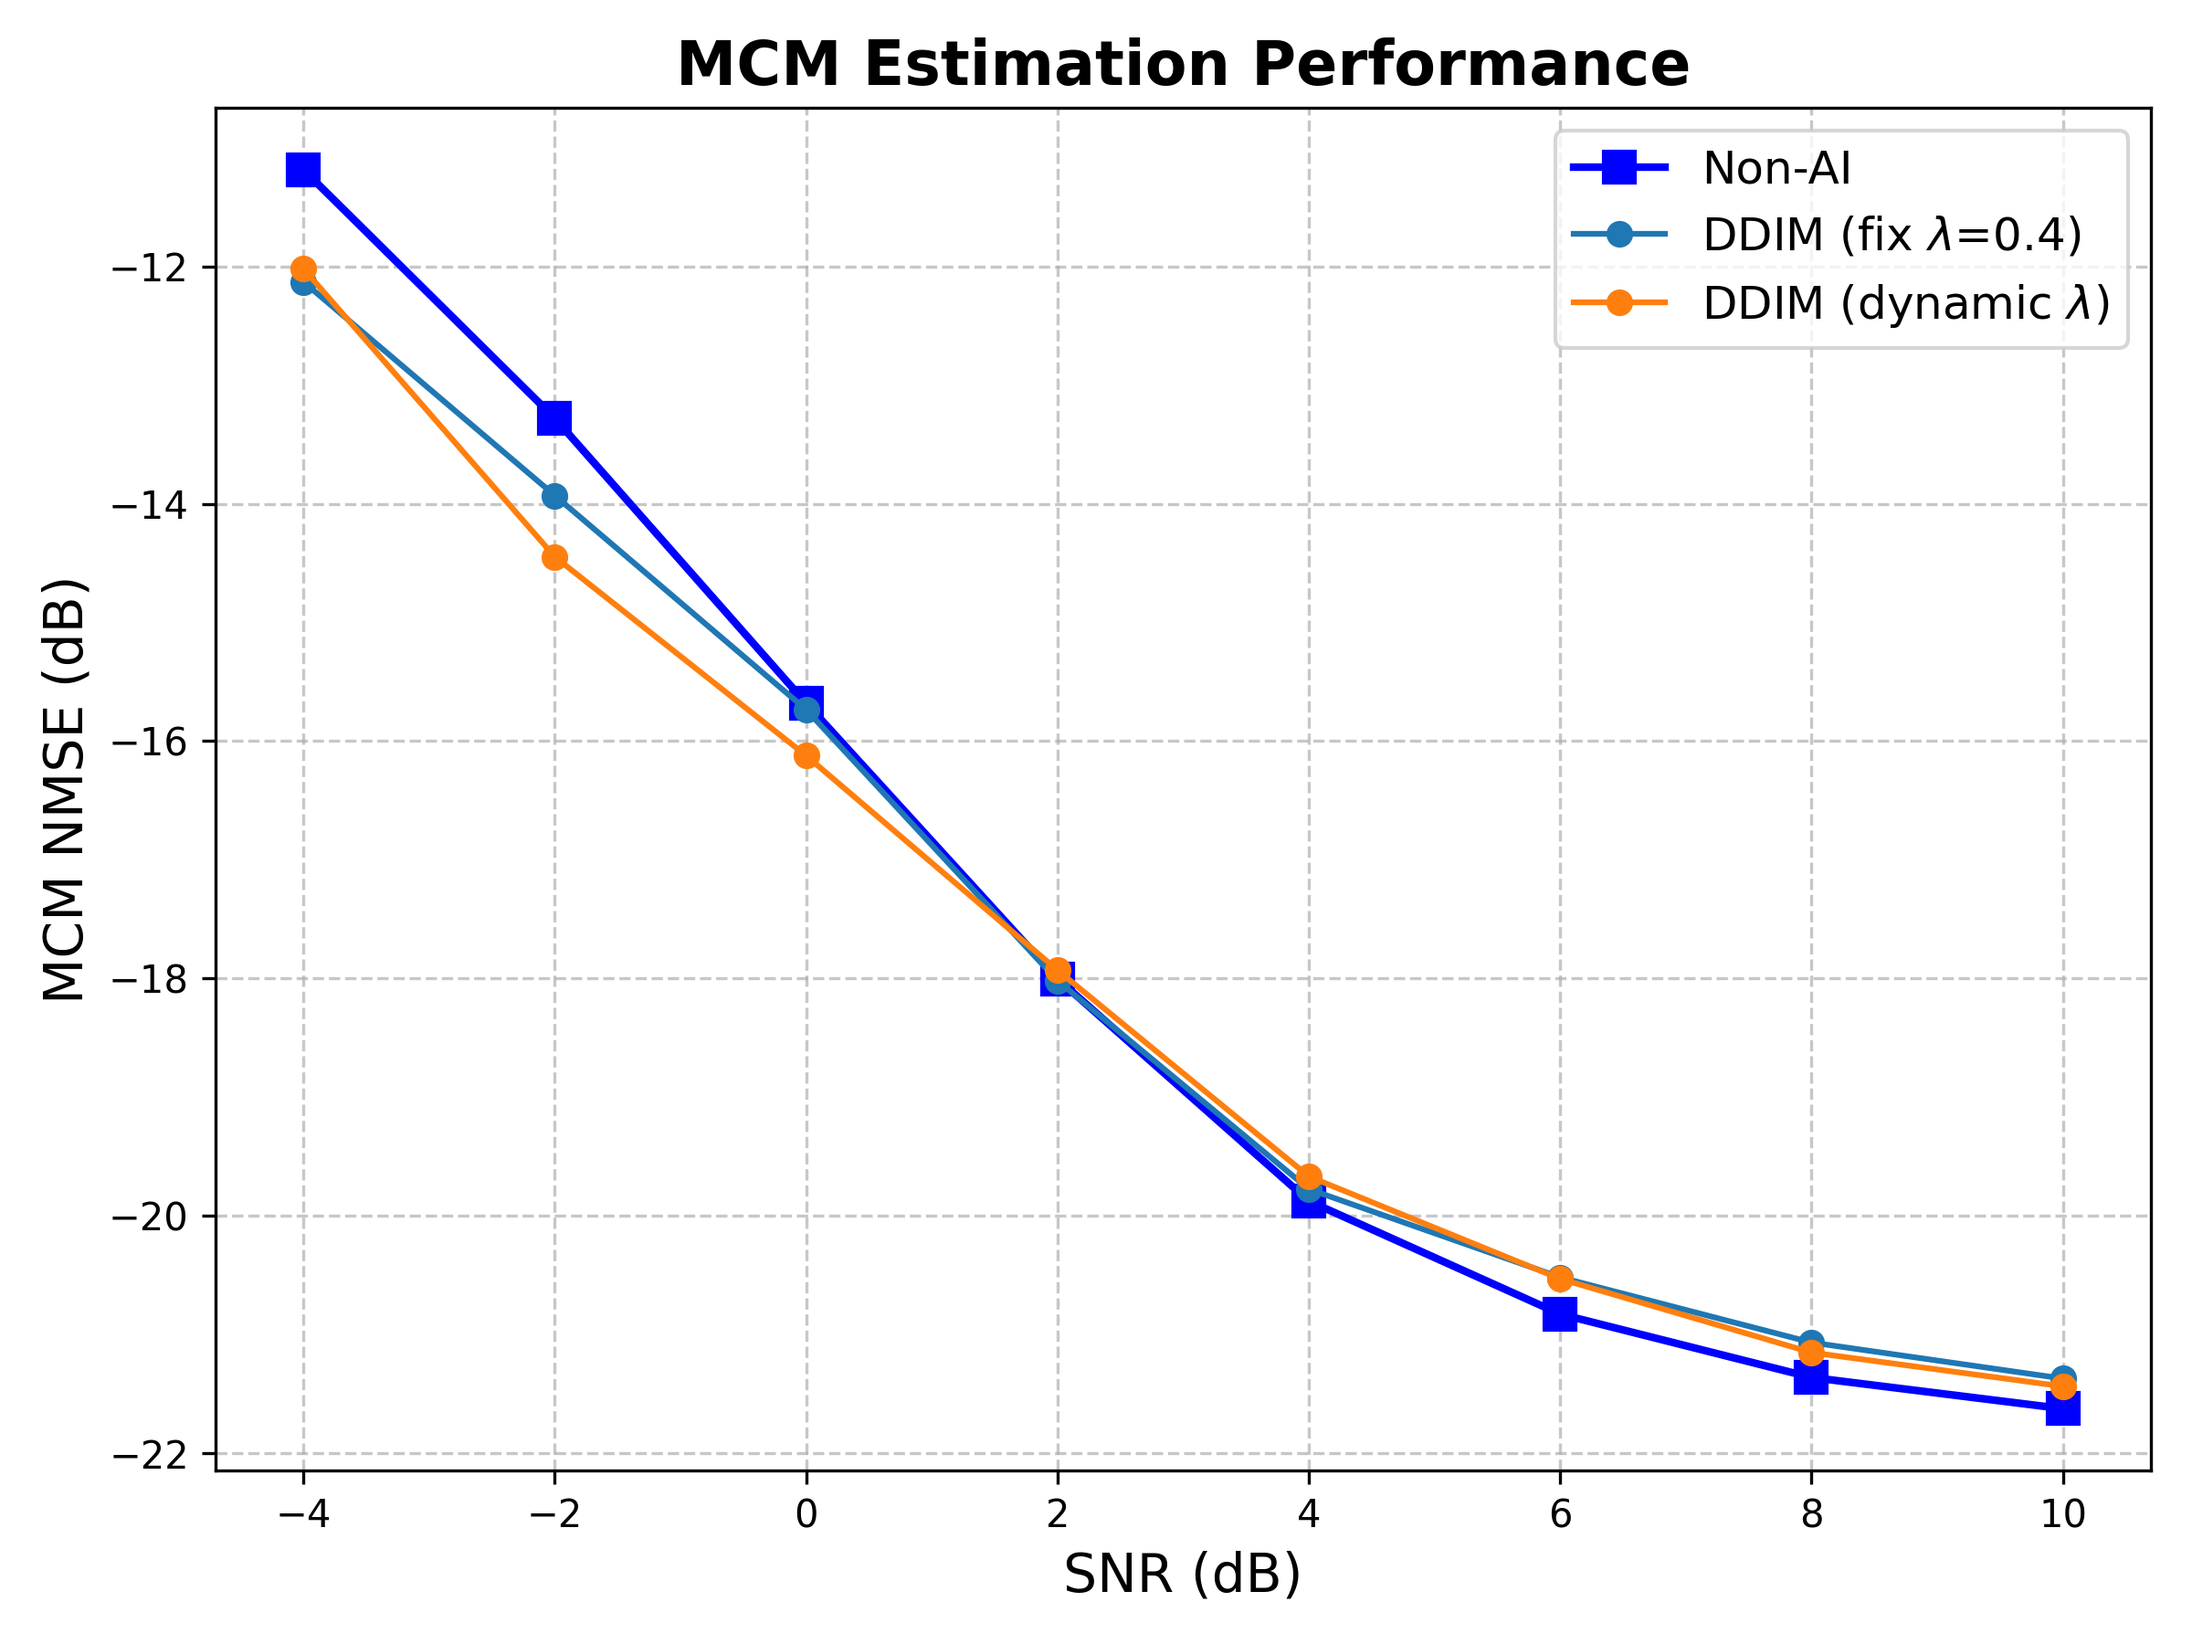
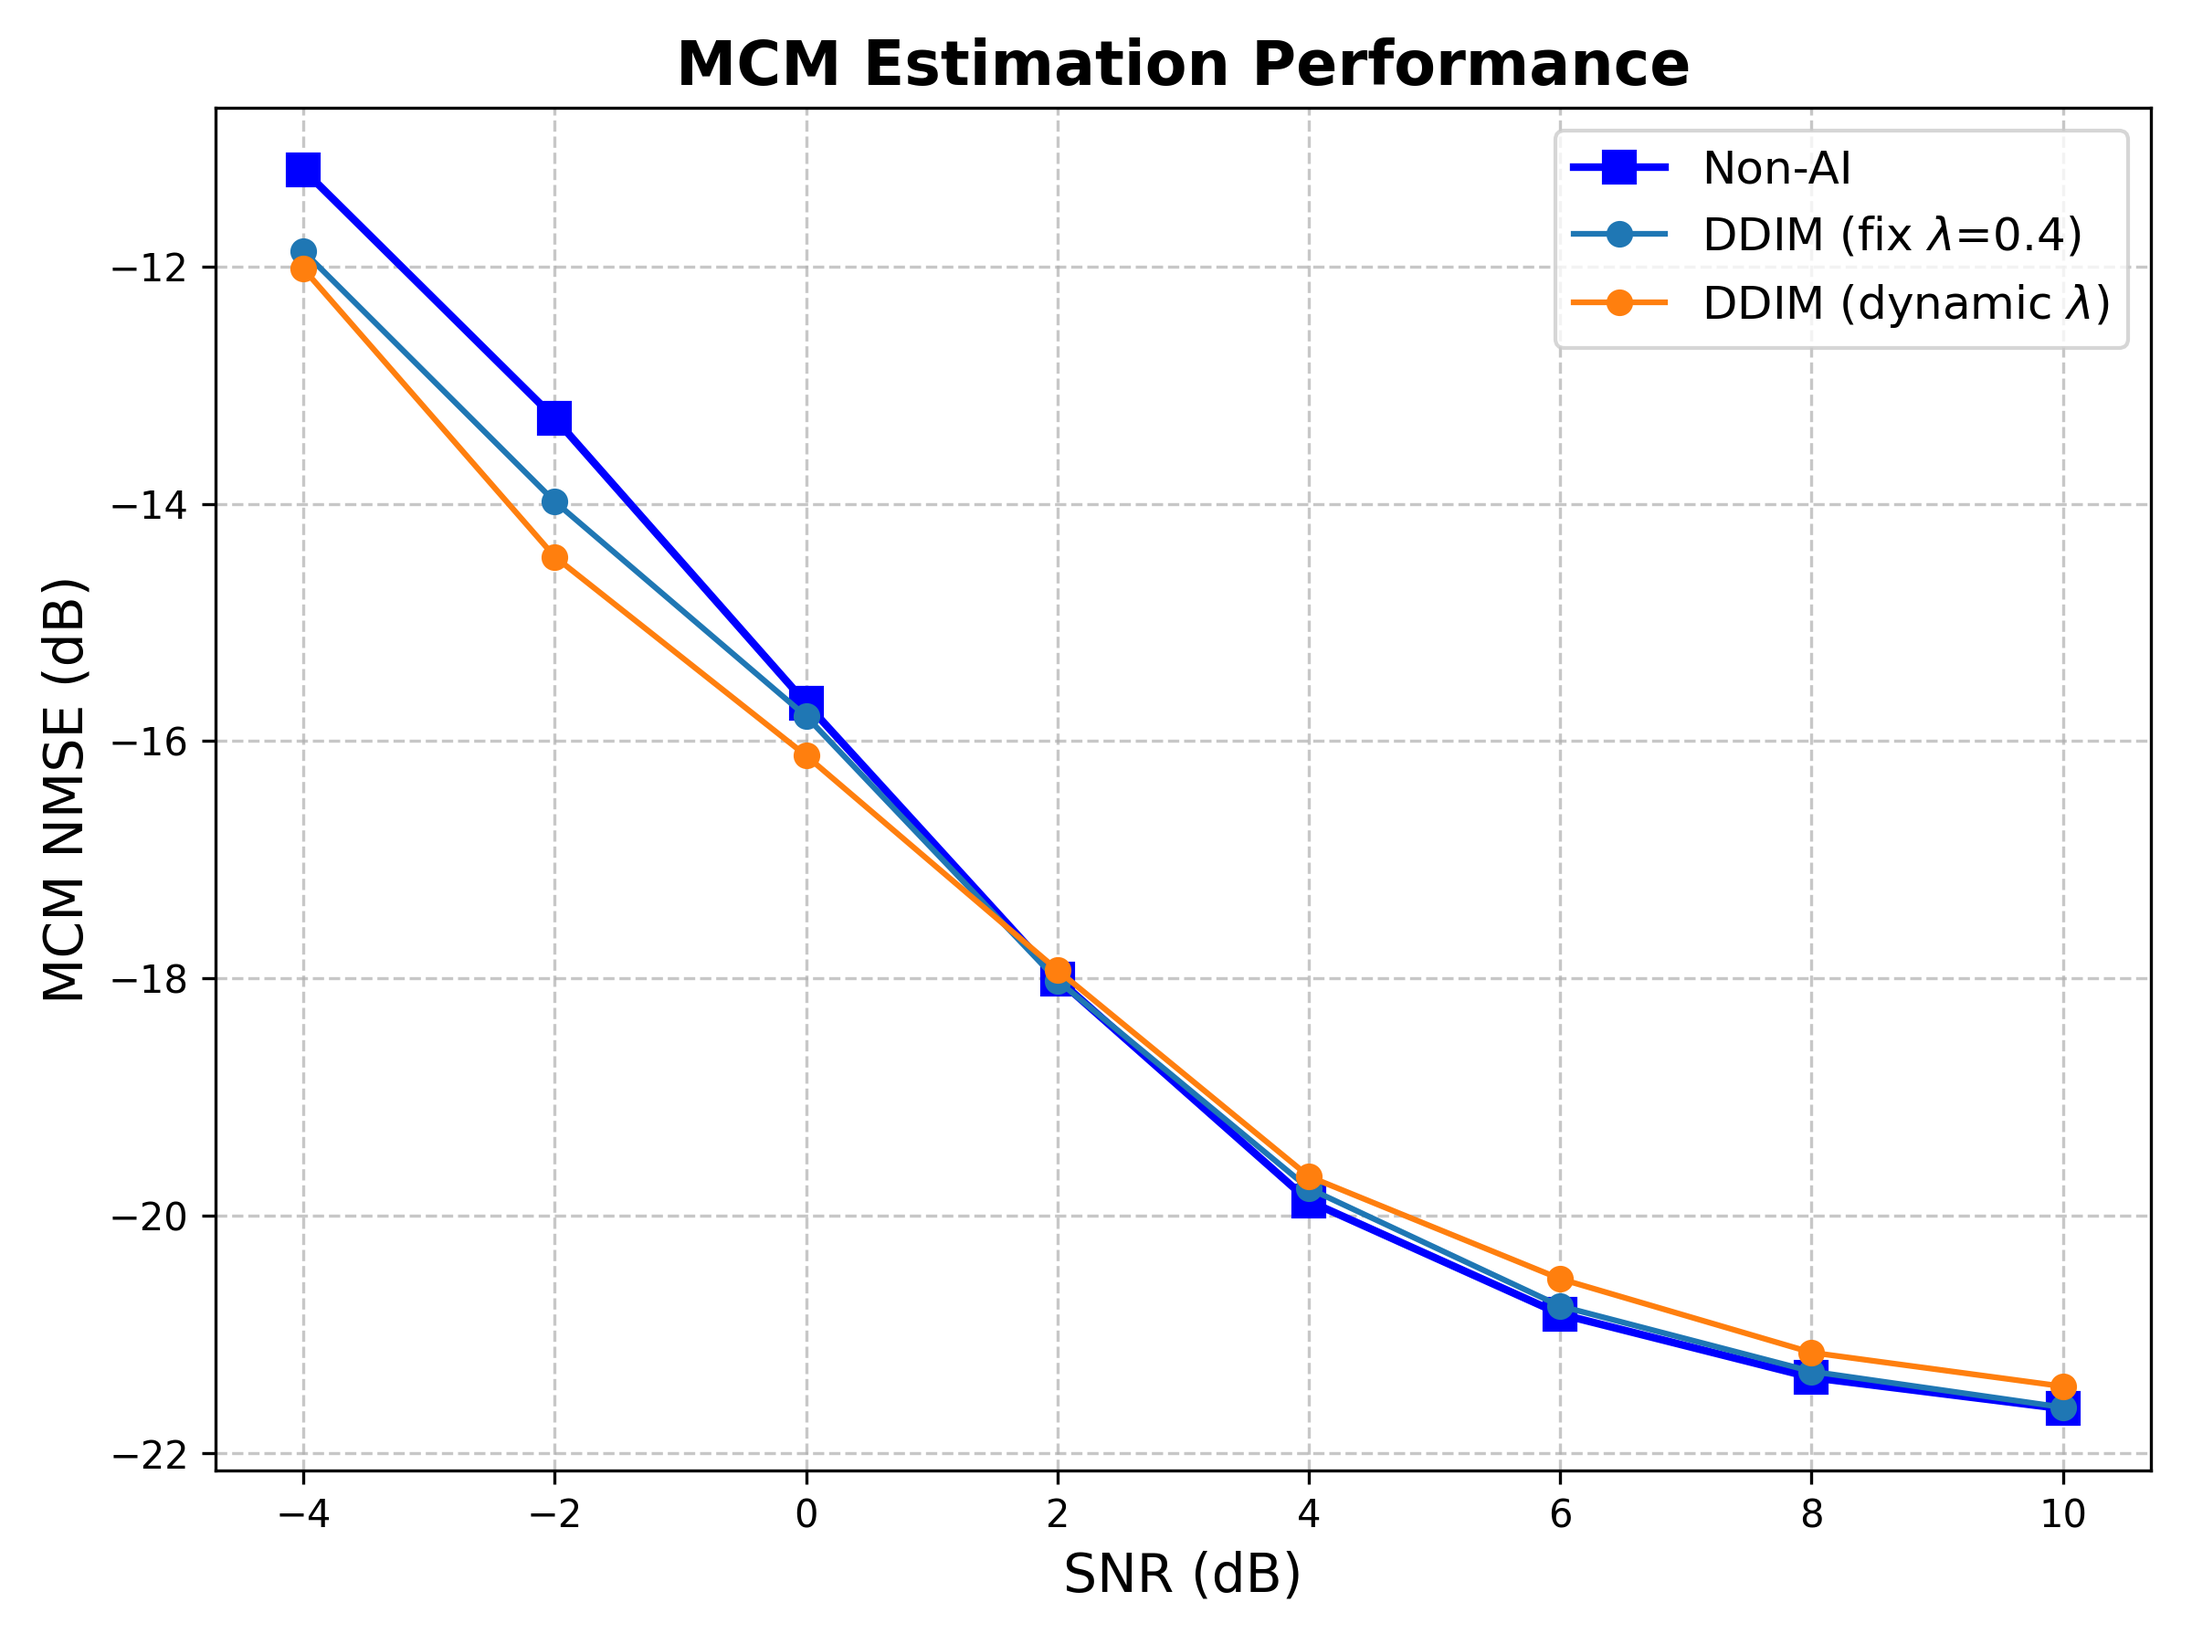
feat(fix_lamb): optimize fixed lambda with data normalization
- Renamed main_fix_lamb for consistency.
- Tuned lambda=0.25 to align with non-AI baseline.
- Added data normalization with max(sigma_y2, 0.2) to further improve alignment.
- Result: fixed lambda w/ data nmlz can perform the same as nonAI.

diff --git a/sim2/DDIM/diffusion/ddim_sampler_parallel.py b/sim2/DDIM/diffusion/ddim_sampler_parallel.py
@@ -70,6 +70,7 @@ def ddim_epsnet_guided_sampler_dynamic(y_obs_complex, eps_net, snr,
     
 
 def ddim_epsnet_guided_sampler_batch(y_obs_complex, eps_net, snr,
+                                     data_mean, data_std,
                                      num_steps=200, T=50.0,
                                      beta_min=1e-4, beta_max=0.02,
                                      guidance_lambda=0.8, device=None,
@@ -82,7 +83,9 @@ def ddim_epsnet_guided_sampler_batch(y_obs_complex, eps_net, snr,
         y_real = complex_to_real(y_obs_complex.T)  # (L, 2N)
         B = y_real.shape[0]
         t_seq = torch.linspace(T, 0.0, num_steps, device=device)
-        x_t = torch.randn_like(y_real, device=device)
+        x_t = torch.randn_like(y_real, device=device)# Ensure broadcasting
+        data_mean = data_mean.view(1, -1)
+        data_std = data_std.view(1, -1)
         sigma_y2 = (10 ** (-snr / 20.0)) ** 2 / 2.0  # placeholder, user can pass SNR if needed
 
         for k in range(num_steps - 1):
@@ -100,17 +103,22 @@ def ddim_epsnet_guided_sampler_batch(y_obs_complex, eps_net, snr,
             sqrt_1m_a_next = torch.sqrt(1.0 - a_bar_next)
 
             # denoise to x0_hat for entire batch
-            x0_hat = (x_t - sqrt_1m_a_cur * eps_pred) / (sqrt_a_cur + 1e-12)
+            x0_hat_norm = (x_t - sqrt_1m_a_cur * eps_pred) / (sqrt_a_cur + 1e-12)
+            x0_hat_phys = x0_hat_norm * data_std + data_mean
 
             # guidance in x0 domain using observed y
-            grad_x0 = (y_real - x0_hat) / max(sigma_y2 + 1e-8, 0.15)
-            x0_hat_guided = x0_hat + guidance_lambda * grad_x0
+            grad_x0 = (y_real - x0_hat_phys) / max(sigma_y2, 0.2)
+            #  Convert Gradient back to Normalized Space (Chain Rule)
+            # dx_phys/dx_norm = data_std
+            grad_norm = grad_x0 * data_std
+            # Apply Guidance in Normalized Space
+            x0_hat_guided_norm = x0_hat_norm + guidance_lambda * grad_norm
 
             # compute eps_guided
-            eps_guided = (x_t - sqrt_a_cur * x0_hat_guided) / (sqrt_1m_a_cur + 1e-12)
+            eps_guided = (x_t - sqrt_a_cur * x0_hat_guided_norm) / (sqrt_1m_a_cur + 1e-12)
 
             # DDIM deterministic update for whole batch
-            x_t = sqrt_a_next * x0_hat_guided + sqrt_1m_a_next * eps_guided
+            x_t = sqrt_a_next * x0_hat_guided_norm + sqrt_1m_a_next * eps_guided
 
             # optional physics projection on batch (operates in real stacked domain)
             if apply_physics_projection and (k % 10 == 0):
@@ -124,11 +132,16 @@ def ddim_epsnet_guided_sampler_batch(y_obs_complex, eps_net, snr,
         sqrt_a_last = torch.sqrt(a_bar_last)
         sqrt_1m_a_last = torch.sqrt(1.0 - a_bar_last)
         x0_hat_final = (x_t - sqrt_1m_a_last * eps_final) / (sqrt_a_last + 1e-12)
+        x0_hat_phys = x0_hat_final * data_std + data_mean
         # final guidance
-        grad_x0 = (y_real - x0_hat_final) / max(sigma_y2 + 1e-8, 0.15)
-        x0_hat_final_guided = x0_hat_final + guidance_lambda * grad_x0
+        grad_x0 = (y_real - x0_hat_phys) / max(sigma_y2 + 1e-8, 0.2)
+        grad_norm = grad_x0 * data_std
+        x0_hat_final_guided = x0_hat_final + guidance_lambda * grad_norm
+
+        # 5. Final Output: Convert back to Physical Space
+        x0_final_phys = x0_hat_final_guided * data_std + data_mean
 
         # unstack back to (N, L)
-        x0_hat_complex = complex_stack_from_real(x0_hat_final_guided)
+        x0_hat_complex = complex_stack_from_real(x0_final_phys)
         x0_est = x0_hat_complex.T  # (N, L)
         return x0_est

diff --git a/sim2/DDIM/train.py b/sim2/DDIM/train.py
@@ -15,6 +15,14 @@ def train_epsilon_net(Xs, model_type='unet1d', num_epochs=5, batch_size=64, lr=1
     Xs_real = torch.cat([Xs_flat.real, Xs_flat.imag], dim=-1).to(device)
     num_total_snapshots = Xs_real.shape[0]
 
+    # data normalization statistics
+    data_mean = torch.mean(Xs_real)
+    data_std = torch.std(Xs_real)
+    # Prevent division by zero
+    if data_std < 1e-8: data_std = torch.tensor(1.0, device=device)
+    # Normalize training data
+    Xs_real_norm = (Xs_real - data_mean) / data_std
+
     # NN model init
     if model_type == 'unet1d':
         from models.epsnet_unet1d import EpsNetUNet1D as Net
@@ -33,7 +41,7 @@ def train_epsilon_net(Xs, model_type='unet1d', num_epochs=5, batch_size=64, lr=1
             start = i * batch_size
             end = start + batch_size
             batch_idx = indices[start:end]
-            x0_batch_real = Xs_real[batch_idx]  # (Batch size, 2N)
+            x0_batch_real = Xs_real_norm[batch_idx]  # (Batch size, 2N)
 
             # randomly pick a time step \x_t to train
             t_cont = torch.rand(batch_size, device=device) * T   # in this case, T = 50
@@ -59,7 +67,9 @@ def train_epsilon_net(Xs, model_type='unet1d', num_epochs=5, batch_size=64, lr=1
             'T': T,
             'beta_min': beta_min,
             'beta_max': beta_max
-        }
+        },
+        'data_mean': data_mean, # SAVE STATS
+        'data_std': data_std
     }
     file_name = f"DDIM_ep{epoch+1}_lr{lr:.0e}_t{int(T)}_bmax{beta_max:.0e}.pth"
     dataset_dir = os.path.join(script_dir, "weights")

diff --git a/sim2/DDIM/main_fixed_lambda.py b/sim2/DDIM/main_fixed_lambda.py
@@ -41,7 +41,7 @@ BETA_MIN=1e-4
 BETA_MAX=0.02
 T_DIFFUSION=1000.0
 NUM_SAMPLING_STEPS=50
-GUIDANCE_LAMBDA=0.4
+GUIDANCE_LAMBDA=0.25
 
 # testing settings
 MODEL_WEIGHT_FILE_NAME = f"DDIM_ep{NUM_EPOCHS}_lr{LR:.0e}_t{int(T_DIFFUSION)}_bmax{BETA_MAX:.0e}.pth"
@@ -92,7 +92,7 @@ elif MODE == 'test':
                                                 device, script_dir, use_toeplitz=True)
 
     print(f'[Info] Loading model...')
-    eps_net = load_trained_model(script_dir, device, N, MODEL_TYPE, MODEL_WEIGHT_FILE_NAME)
+    eps_net, data_mean, data_std = load_trained_model(script_dir, device, N, MODEL_TYPE, MODEL_WEIGHT_FILE_NAME)
 
     theta_nmse_results = []
     M_nmse_results = []
@@ -117,6 +117,7 @@ elif MODE == 'test':
 
         # --- 1. denoising using DDIM guided sampler (N, S * L) -> (N, S * L) ---
         x0_batch_est = ddim_epsnet_guided_sampler_batch(Ys_batch, eps_net, snr,
+                                data_mean, data_std,
                                 NUM_SAMPLING_STEPS, T_DIFFUSION, BETA_MIN, BETA_MAX, GUIDANCE_LAMBDA,
                                 device=device, apply_physics_projection=True)
 

diff --git a/sim2/DDIM/models/eps_net_loader.py b/sim2/DDIM/models/eps_net_loader.py
@@ -23,4 +23,7 @@ def load_trained_model(script_dir, device, N, model_type='mlp', file_name= None)
     eps_net.load_state_dict(checkpoint['model_state_dict']); 
     eps_net.eval()
 
-    return eps_net
+    data_mean = checkpoint['data_mean'].to(device)
+    data_std = checkpoint['data_std'].to(device)
+
+    return eps_net, data_mean, data_std
